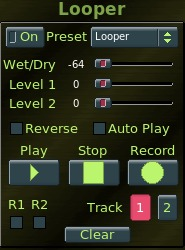
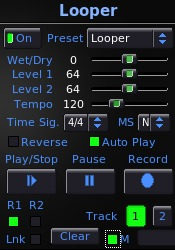
Update
modified:   ChangeLog
	modified:   doc/help/effects.html
	modified:   doc/help/imagenes/loo.jpg

diff --git a/doc/help/effects.html b/doc/help/effects.html
@@ -1384,6 +1384,8 @@ Again, both the track and the R button need to be selected to record on
 the specified track.</p>
       <p><b>Clear</b>: Erase the selected track and set
 length to zero.</p>
+<p><b>M</b>: Enable Metronome.</p>
+
 <p>Example sequence of operation:<br>
 Set Wet/Dry to 0, Level 1 to 64, Auto Play Active, Track 1 active, R1
 active. Press record and begin to play into the loop. When finished,
